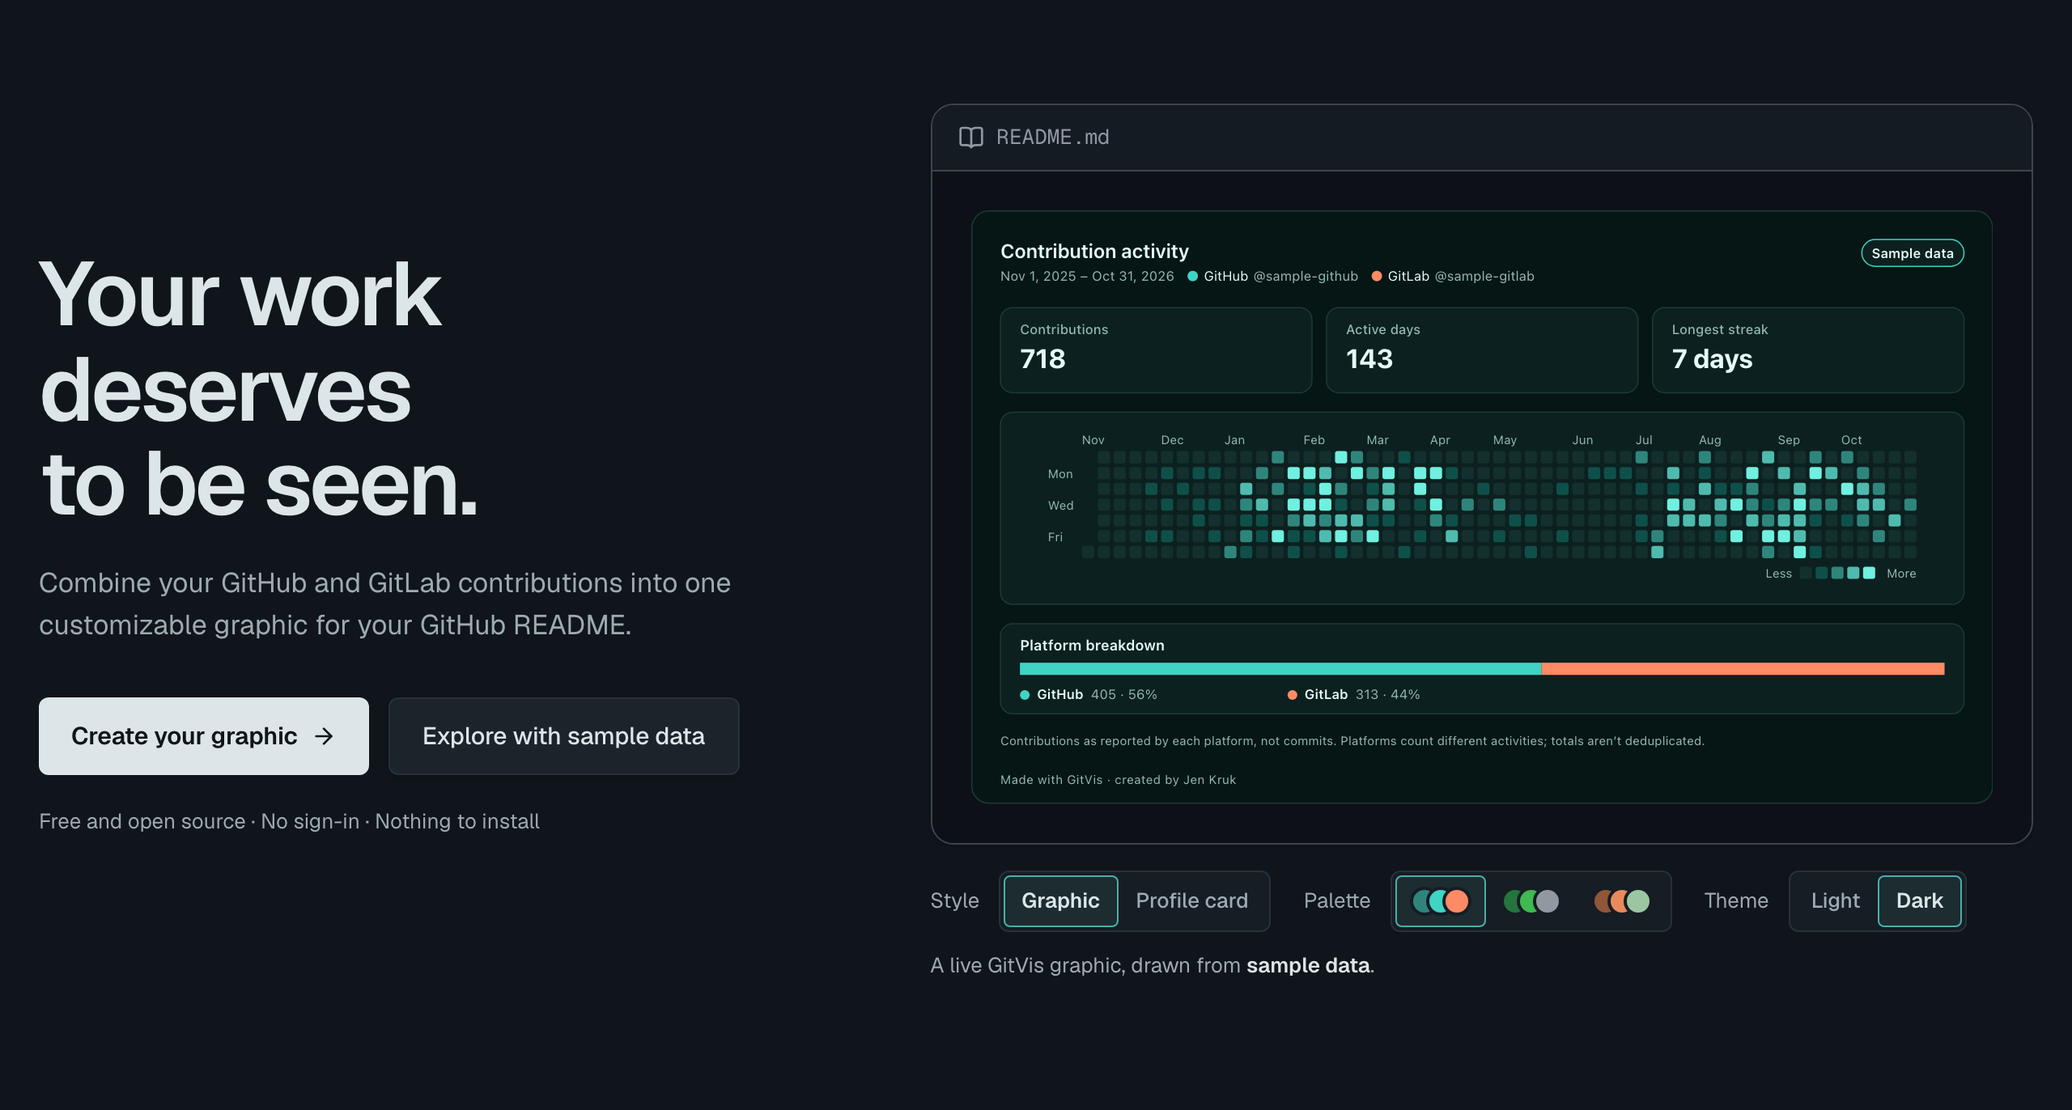
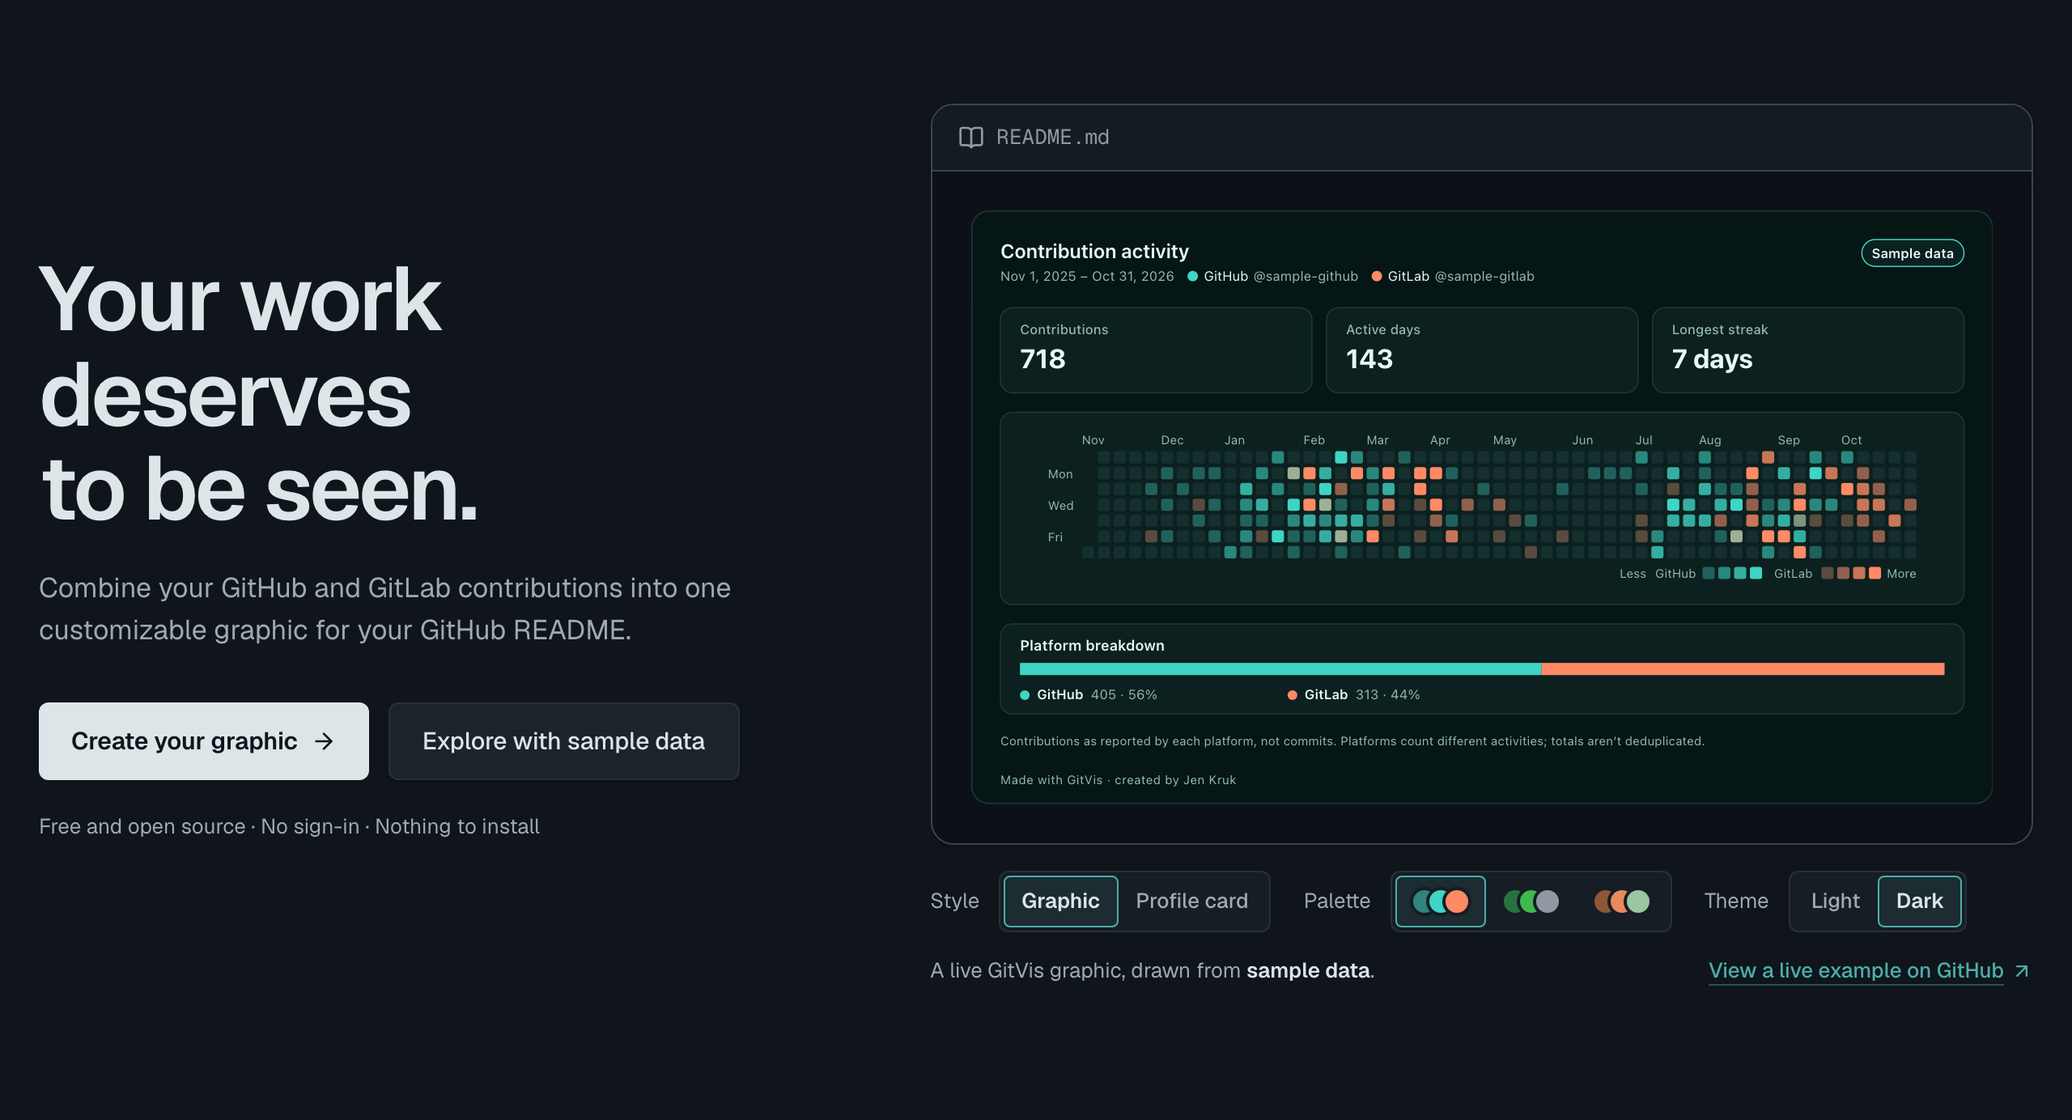
feat(heatmap): color new designs' heatmaps by platform, with a hm URL option that keeps existing cards unchanged

diff --git a/src/publish/card-params.ts b/src/publish/card-params.ts
@@ -5,6 +5,7 @@ import {
   type DateRangeDays,
   type Density,
   finalText,
+  type HeatmapColors,
   type IdentityStyle,
   NAME_MAX_LENGTH,
   sanitizeText,
@@ -94,6 +95,7 @@ const YEARS_CODES: Record<`${HistoryYears}`, string> = { "1": "1", "2": "2", "3"
 const RANGE_CODES: Record<`${DateRangeDays}`, string> = { "30": "30", "90": "90", "365": "365" };
 const PLATFORM_CODES: Record<PlatformId, string> = { github: "github", gitlab: "gitlab" };
 const AVATAR_SIDE_CODES: Record<AvatarSide, string> = { left: "left", right: "right" };
+const HEATMAP_CODES: Record<Exclude<HeatmapColors, "auto">, string> = { platform: "platform", combined: "combined" };
 const LEGACY = {
   identity: "none" as IdentityStyle,
   handles: [...PLATFORM_IDS] as PlatformId[],
@@ -105,6 +107,7 @@ const LEGACY = {
   years: 1 as HistoryYears,
   leftPlatform: "github" as PlatformId,
   avatarSide: "left" as AvatarSide,
+  heatmapColors: "auto" as HeatmapColors,
 };
 
 const V1_DEFAULTS = {
@@ -143,6 +146,7 @@ const YEARS_BY_CODE = invert(YEARS_CODES);
 const RANGE_BY_CODE = invert(RANGE_CODES);
 const PLATFORM_BY_CODE = invert(PLATFORM_CODES);
 const AVATAR_SIDE_BY_CODE = invert(AVATAR_SIDE_CODES);
+const HEATMAP_BY_CODE = invert(HEATMAP_CODES);
 const STAT_CODES = Object.fromEntries(STAT_FEATURE_IDS.map((id) => [id, FEATURE_CODES[id]])) as Record<
   StatFeatureId,
   string
@@ -211,6 +215,7 @@ export function encodeCardParams({ request, config: design, size }: CardParams):
   if (config.density !== LEGACY.density) params.set("den", DENSITY_CODES[config.density]);
   if (config.panel !== LEGACY.panel) params.set("pnl", PANEL_CODES[config.panel]);
   if (config.years !== LEGACY.years) params.set("yrs", YEARS_CODES[`${config.years}`]);
+  if (config.heatmapColors !== "auto") params.set("hm", HEATMAP_CODES[config.heatmapColors]);
   return params;
 }
 
@@ -301,6 +306,7 @@ export function decodeCardParams(search: URLSearchParams): DecodedCardParams {
   const density = pick("den", DENSITY_BY_CODE, LEGACY.density);
   const panel = pick("pnl", PANEL_BY_CODE, LEGACY.panel);
   const years = Number(pick("yrs", YEARS_BY_CODE, `${LEGACY.years}`)) as HistoryYears;
+  const heatmapColors: HeatmapColors = pick("hm", HEATMAP_BY_CODE, LEGACY.heatmapColors);
   if (years > 1 && range !== 365) {
     issues.push({ param: "yrs", message: "Multi-year history can't be combined with a 30- or 90-day range." });
   }
@@ -332,6 +338,7 @@ export function decodeCardParams(search: URLSearchParams): DecodedCardParams {
     density,
     panel,
     years,
+    heatmapColors,
   };
   if (years > 1) config.range = 365;
   const decoded = withAttribution(config);

diff --git a/src/config/config.ts b/src/config/config.ts
@@ -18,6 +18,7 @@ export type BackgroundStyle = "solid" | "gradient" | "transparent";
 export type DateRangeDays = 30 | 90 | 365;
 export type Density = "compact" | "spacious";
 export type AvatarSide = "left" | "right";
+export type HeatmapColors = "auto" | "platform" | "combined";
 
 export const IDENTITY_STYLES: readonly IdentityStyle[] = ["none", "compact", "full", "centered"];
 export const BACKGROUND_STYLES: readonly BackgroundStyle[] = ["solid", "gradient", "transparent"];
@@ -54,6 +55,7 @@ export interface VisualizationConfig {
   range: DateRangeDays;
   density: Density;
   panel: PanelStyle;
+  heatmapColors: HeatmapColors;
   years: HistoryYears;
 }
 
@@ -113,7 +115,21 @@ export function createDefaultConfig(): VisualizationConfig {
     density: "spacious",
     panel: "filled",
     years: 1,
+    heatmapColors: "platform",
   };
+}
+
+export function hasCustomPlatformColors(config: Pick<VisualizationConfig, "platformColors">): boolean {
+  return PLATFORM_IDS.some((p) => !!config.platformColors[p]);
+}
+
+export function heatmapByPlatform(
+  config: Pick<VisualizationConfig, "heatmapColors" | "platformColors">,
+  platformCount: number,
+): boolean {
+  if (config.heatmapColors === "combined") return false;
+  if (config.heatmapColors === "platform" && platformCount > 1) return true;
+  return hasCustomPlatformColors(config);
 }
 
 export function sanitizeText(value: string, max: number, { finalize = true } = {}): string {
@@ -146,6 +162,7 @@ export type ConfigAction =
   | { type: "setRange"; range: DateRangeDays }
   | { type: "setDensity"; density: Density }
   | { type: "setPanel"; panel: PanelStyle }
+  | { type: "setHeatmapByPlatform"; enabled: boolean }
   | { type: "setYears"; years: HistoryYears }
   | {
       type: "applyPreset";
@@ -213,6 +230,10 @@ export function configReducer(state: VisualizationConfig, action: ConfigAction):
       return state.density === action.density ? state : { ...state, density: action.density };
     case "setPanel":
       return state.panel === action.panel ? state : { ...state, panel: action.panel };
+    case "setHeatmapByPlatform": {
+      const heatmapColors = action.enabled ? "platform" : "combined";
+      return state.heatmapColors === heatmapColors ? state : { ...state, heatmapColors };
+    }
     case "applyPreset":
       if (presetOf(state) === action.preset) return state;
       if (action.preset === "graphic") return identity({ style: "none" });

diff --git a/src/renderers/phase4-render.test.tsx b/src/renderers/phase4-render.test.tsx
@@ -379,7 +379,7 @@ describe("panel styles (Phase 4.2)", () => {
   });
 });
 
-describe("heatmap colored by platform (custom platform colors)", () => {
+describe("heatmap colored by platform", () => {
   const custom = with_({ type: "setPlatformColor", platform: "gitlab", color: "#a7562a" });
   const cells = (svg: string) =>
     [...svg.matchAll(/<rect [^>]*rx="2" fill="(#[0-9a-f]{6})"><title>([^<]*)<\/title>/g)].map((m) => ({
@@ -387,11 +387,30 @@ describe("heatmap colored by platform (custom platform colors)", () => {
       title: m[2]!,
     }));
 
-  it("leaves the default (no custom colors) on the palette's single ramp", () => {
-    const svg = render(createDefaultConfig());
+  it("keeps the original single ramp for URLs without hm and no custom colors", () => {
+    const svg = render({ ...createDefaultConfig(), heatmapColors: "auto" });
     const theme = resolveTheme("aurora", "dark");
     for (const { fill } of cells(svg)) expect(theme.heatmap).toContain(fill);
     expect(svg).not.toMatch(/>GitLab<\/text><rect/);
+  });
+
+  it("colors new designs with both accounts by platform, using the palette's own series colors", () => {
+    const svg = render(createDefaultConfig());
+    const [githubRamp, gitlabRamp] = withPlatformHeatmap(resolveTheme("aurora", "dark")).platformHeatmap!;
+    expect(gitlabRamp.slice(1)).toContain(cells(svg).find((c) => /\(GitLab \d+\)$/.test(c.title))!.fill);
+    expect(githubRamp.slice(1)).toContain(cells(svg).find((c) => /\(GitHub \d+\)$/.test(c.title))!.fill);
+    expect(svg).toMatch(/>Less<\/text>.*>GitHub<\/text>.*>GitLab<\/text>.*>More<\/text>/s);
+  });
+
+  it("uses the single ramp when switched off, even with custom colors, and for one account", () => {
+    const theme = resolveTheme("aurora", "dark");
+    const off = render(with_({ type: "setHeatmapByPlatform", enabled: false }));
+    for (const { fill } of cells(off)) expect(theme.heatmap).toContain(fill);
+    const offCustom = render({ ...custom, heatmapColors: "combined" });
+    expect(offCustom).not.toMatch(/>GitLab<\/text><rect/);
+    const single = combineSources([dataset.sources[0]!], trailingYear(end), "live");
+    const oneAccount = renderToStaticMarkup(<Visualization dataset={single} config={createDefaultConfig()} />);
+    expect(oneAccount).not.toMatch(/>GitHub<\/text><rect/);
   });
 
   it("colors each day by the platform that contributed most, and labels both ramps", () => {

diff --git a/src/components/studio/DesignControls.tsx b/src/components/studio/DesignControls.tsx
@@ -1,5 +1,5 @@
 import type { Dispatch } from "react";
-import { type ConfigAction, isFeatureVisible, type VisualizationConfig } from "@/config/config";
+import { type ConfigAction, heatmapByPlatform, isFeatureVisible, type VisualizationConfig } from "@/config/config";
 import { FEATURES } from "@/config/features";
 import { type ContributionDataset, PLATFORMS } from "@/domain/types";
 import { Disclosure } from "./controls";
@@ -7,6 +7,7 @@ import { overline } from "@/components/ui/recipes";
 import {
   BackgroundPicker,
   DataPicker,
+  HeatmapColorsSwitch,
   historyAvailability,
   IdentityPicker,
   PanelPicker,
@@ -48,7 +49,12 @@ export function sectionSummaries(config: VisualizationConfig, dataset: Contribut
     identity: [IDENTITY_SUMMARY[config.identity.style], arrangement(config), config.identity.name.trim()]
       .filter(Boolean)
       .join(" · "),
-    colors: [BACKGROUND_SUMMARY[config.background], PANEL_SUMMARY[config.panel], custom ? "Custom colors" : ""]
+    colors: [
+      BACKGROUND_SUMMARY[config.background],
+      PANEL_SUMMARY[config.panel],
+      custom ? "Custom colors" : "",
+      dataset.sources.length > 1 && !heatmapByPlatform(config, dataset.sources.length) ? "Combined heatmap" : "",
+    ]
       .filter(Boolean)
       .join(" · "),
     metrics: `${shown} of ${FEATURES.length} shown`,
@@ -76,6 +82,7 @@ export function DesignControls({ config, dispatch, dataset }: DesignControlsProp
           <BackgroundPicker config={config} dispatch={dispatch} />
           <PanelPicker config={config} dispatch={dispatch} />
           <PlatformColorPicker config={config} dispatch={dispatch} />
+          <HeatmapColorsSwitch config={config} dispatch={dispatch} dataset={dataset} />
         </Disclosure>
         <Disclosure name={ACCORDION} title="Metrics & Charts" summary={summaries.metrics}>
           <FeatureToggles config={config} dispatch={dispatch} dataset={dataset} />

diff --git a/src/publish/phase4-params.test.ts b/src/publish/phase4-params.test.ts
@@ -46,10 +46,28 @@ describe("Phase 4 URL params", () => {
   });
 
   it("leave legacy-equivalent designs with the same params (no new params written; same URL as before)", () => {
-    const query = encodeCardParams({ request: { github: "jenkruk" }, config: createDefaultConfig() }).toString();
+    const legacyEquivalent: VisualizationConfig = { ...createDefaultConfig(), heatmapColors: "auto" };
+    const query = encodeCardParams({ request: { github: "jenkruk" }, config: legacyEquivalent }).toString();
     expect(query).toBe(
       "v=1&github=jenkruk&layout=dashboard&palette=aurora&mode=dark&f=heatmap%2Ctotal%2Cactive%2Cstreak%2Cbreakdown%2Ctrends%2Clabels",
     );
+  });
+
+  it("decode a missing hm as the original heatmap coloring, and round-trip platform and combined", () => {
+    expect(decode("v=1&github=jenkruk").config.heatmapColors).toBe("auto");
+    expect(decode("v=1&github=jenkruk&hm=platform").config.heatmapColors).toBe("platform");
+    expect(decode("v=1&github=jenkruk&hm=combined").config.heatmapColors).toBe("combined");
+    expect(decode("v=1&github=jenkruk&hm=rainbow").issues).toEqual([{ param: "hm", message: "Unknown hm “rainbow”." }]);
+    for (const heatmapColors of ["platform", "combined"] as const) {
+      const config = { ...createDefaultConfig(), heatmapColors };
+      expect(decodeCardParams(encodeCardParams({ request: { github: "jenkruk" }, config })).config).toEqual(config);
+    }
+  });
+
+  it("start new designs with the heatmap colored by platform (written as hm=platform)", () => {
+    expect(createDefaultConfig().heatmapColors).toBe("platform");
+    const query = encodeCardParams({ request: { github: "jenkruk" }, config: createDefaultConfig() });
+    expect(query.get("hm")).toBe("platform");
   });
 
   it("fit within the query limit even with maximal multi-byte name and title", () => {

diff --git a/src/components/studio/personalize.tsx b/src/components/studio/personalize.tsx
@@ -6,6 +6,7 @@ import {
   type BackgroundStyle,
   type ConfigAction,
   type Density,
+  hasCustomPlatformColors,
   hasTitle,
   type IdentityStyle,
   NAME_MAX_LENGTH,
@@ -16,7 +17,7 @@ import {
 import type { HistoryYears } from "@/domain/history";
 import { type ContributionDataset, PLATFORM_IDS, PLATFORMS, type PlatformId } from "@/domain/types";
 import { resolveTheme } from "@/theme/palettes";
-import { ControlGroup, RadioCard, SegmentLabel } from "./controls";
+import { ControlGroup, RadioCard, SegmentLabel, Switch } from "./controls";
 import { button, field, focusRing, focusWithin, hint as hintClass } from "@/components/ui/recipes";
 
 interface Props {
@@ -279,6 +280,25 @@ export function PanelPicker({ config, dispatch }: Props) {
         ))}
       </div>
     </ControlGroup>
+  );
+}
+
+export function HeatmapColorsSwitch({ config, dispatch, dataset }: Props & { dataset: ContributionDataset }) {
+  const checked =
+    config.heatmapColors === "platform" || (config.heatmapColors === "auto" && hasCustomPlatformColors(config));
+  const combinedAccounts = dataset.sources.length > 1;
+  return (
+    <Switch
+      id="heatmap-by-platform"
+      label="Color the heatmap by platform"
+      description={
+        combinedAccounts || hasCustomPlatformColors(config)
+          ? "Each day takes the color of the platform with more contributions that day."
+          : "Applies when both accounts are connected."
+      }
+      checked={checked}
+      onChange={(enabled) => dispatch({ type: "setHeatmapByPlatform", enabled })}
+    />
   );
 }
 

diff --git a/src/publish/card-params.test.ts b/src/publish/card-params.test.ts
@@ -47,7 +47,7 @@ describe("card params: round trip", () => {
       config: { ...createDefaultConfig(), layout: "dataRich", palette: "desertSunset", mode: "light" },
     }).toString();
     expect(query).toBe(
-      "v=1&github=jenkruk&gitlab=contactkruk&layout=data-rich&palette=desert-sunset&mode=light&f=heatmap%2Ctotal%2Cactive%2Cstreak%2Cbreakdown%2Ctrends%2Clabels",
+      "v=1&github=jenkruk&gitlab=contactkruk&layout=data-rich&palette=desert-sunset&mode=light&f=heatmap%2Ctotal%2Cactive%2Cstreak%2Cbreakdown%2Ctrends%2Clabels&hm=platform",
     );
   });
 });
@@ -69,6 +69,7 @@ const LEGACY_EXTRAS = {
   density: "spacious",
   panel: "filled",
   years: 1,
+  heatmapColors: "auto",
 } as const satisfies Omit<VisualizationConfig, "layout" | "palette" | "mode" | "features">;
 const legacy = (c: Pick<VisualizationConfig, "layout" | "palette" | "mode" | "features">): VisualizationConfig =>
   ({
@@ -211,7 +212,7 @@ describe("card params: source attribution", () => {
       },
     }).toString();
     expect(query).toBe(
-      "v=1&github=jenkruk&layout=dashboard&palette=aurora&mode=dark&f=heatmap%2Ctotal%2Cactive%2Cstreak%2Cbreakdown%2Ctrends%2Clabels",
+      "v=1&github=jenkruk&layout=dashboard&palette=aurora&mode=dark&f=heatmap%2Ctotal%2Cactive%2Cstreak%2Cbreakdown%2Ctrends%2Clabels&hm=platform",
     );
   });
 

diff --git a/src/components/studio/Studio.test.tsx b/src/components/studio/Studio.test.tsx
@@ -281,6 +281,23 @@ describe("design step", () => {
     expect(screen.getByRole("radio", { name: /gradient/i, hidden: true })).toBeChecked();
   });
 
+  it("colors the heatmap by platform by default, with a switch to combine it", async () => {
+    const { user, preview } = design();
+    const section = screen.getByText("Colors & Background", { selector: "summary span" }).closest("details")!;
+    await user.click(within(section).getByText("Colors & Background"));
+    const toggle = screen.getByRole("switch", { name: "Color the heatmap by platform" });
+    expect(toggle).toBeChecked();
+    expect(toggle).toHaveAccessibleDescription(/platform with more contributions/i);
+    const platformLegend = />Less<\/text>.*>GitHub<\/text>.*>GitLab<\/text>.*>More<\/text>/s;
+    expect(preview().innerHTML).toMatch(platformLegend);
+
+    await user.click(toggle);
+    expect(toggle).not.toBeChecked();
+    expect(section.querySelector("summary")).toHaveTextContent("Combined heatmap");
+    expect(new URLSearchParams(window.location.search).get("hm")).toBe("combined");
+    expect(preview().innerHTML).not.toMatch(platformLegend);
+  });
+
   it("marks selected cards with a check as well as color, and keeps the radio semantics", () => {
     design();
     const layout = screen.getByRole("group", { name: "Layout" });

diff --git a/src/app/studio/page.tsx b/src/app/studio/page.tsx
@@ -7,7 +7,8 @@ import { Studio } from "@/components/studio/Studio";
 import { StudioSkeleton } from "@/components/studio/StudioSkeleton";
 import { createSampleDataset } from "@/fixtures/sample-dataset";
 import { decodeCardParams } from "@/publish/card-params";
-import { SAMPLE_PARAM, STUDIO_PATH } from "@/publish/studio-url";
+import { hasDesignParams, SAMPLE_PARAM, STUDIO_PATH } from "@/publish/studio-url";
+import { createDefaultConfig } from "@/config/config";
 import { serverLoaders } from "@/server/cached";
 import { MAX_HISTORY_YEARS } from "@/domain/history";
 import { loadContributions } from "@/server/contributions";
@@ -48,7 +49,9 @@ async function resolveOrigin() {
 
 async function StudioLoader({ searchParams }: Pick<PageProps<"/studio">, "searchParams">) {
   const search = toSearchParams(await searchParams);
-  const { request, config } = decodeCardParams(search);
+  const decoded = decodeCardParams(search);
+  const { request } = decoded;
+  const config = hasDesignParams(search) ? decoded.config : createDefaultConfig();
   const sample = !request && search.has(SAMPLE_PARAM);
   const { origin, environment } = await resolveOrigin();
   if (request) await connection();

diff --git a/src/publish/studio-url.test.ts b/src/publish/studio-url.test.ts
@@ -3,7 +3,7 @@ import { createDefaultConfig, type VisualizationConfig } from "@/config/config";
 import { FEATURE_IDS } from "@/config/features";
 import { STAT_FEATURE_IDS } from "@/config/features";
 import { encodeCardParams } from "./card-params";
-import { legacyStudioRedirects, SAMPLE_PARAM, STUDIO_PATH, STUDIO_QUERY_KEYS } from "./studio-url";
+import { hasDesignParams, legacyStudioRedirects, SAMPLE_PARAM, STUDIO_PATH, STUDIO_QUERY_KEYS } from "./studio-url";
 
 const nonDefaultDesign: VisualizationConfig = {
   ...createDefaultConfig(),
@@ -50,5 +50,13 @@ describe("studio URLs", () => {
       expect(r.destination).not.toContain("?");
     }
     expect(redirects.map((r) => r.has[0]!.key)).toContain(SAMPLE_PARAM);
+  });
+
+  it("treats a studio URL with only accounts or the sample flag as a new design", () => {
+    const has = (q: string) => hasDesignParams(new URLSearchParams(q));
+    expect(has("")).toBe(false);
+    expect(has("github=a&gitlab=b&sample=1")).toBe(false);
+    expect(has("v=1&github=a")).toBe(true);
+    expect(has("palette=lagoon")).toBe(true);
   });
 });

diff --git a/src/renderers/Visualization.tsx b/src/renderers/Visualization.tsx
@@ -1,4 +1,4 @@
-import { finalText, hasTitle, isFeatureVisible, type VisualizationConfig } from "@/config/config";
+import { finalText, hasTitle, heatmapByPlatform, isFeatureVisible, type VisualizationConfig } from "@/config/config";
 import { formatDate, toISODate } from "@/domain/dates";
 import { type ContributionDataset, PLATFORMS } from "@/domain/types";
 import { computeMetrics, type ContributionMetrics } from "@/metrics/metrics";
@@ -91,7 +91,7 @@ export function Visualization({
     custom.github || custom.gitlab ? { series: [custom.github, custom.gitlab] } : {},
   );
   const panelled = applyPanelStyle(base, config.panel, panelBackdrops(base, config.background, config.mode));
-  const theme = custom.github || custom.gitlab ? withPlatformHeatmap(panelled) : panelled;
+  const theme = heatmapByPlatform(config, dataset.sources.length) ? withPlatformHeatmap(panelled) : panelled;
   const spacing = SPACING[config.density];
   const canvasWidth = CANVAS_WIDTHS[size];
   const compactCanvas = size === "compact";

diff --git a/src/publish/studio-url.ts b/src/publish/studio-url.ts
@@ -27,6 +27,7 @@ export const STUDIO_QUERY_KEYS = [
   "den",
   "pnl",
   "yrs",
+  "hm",
   SAMPLE_PARAM,
 ] as const;
 
@@ -37,4 +38,10 @@ export function legacyStudioRedirects() {
     destination: STUDIO_PATH,
     permanent: false,
   }));
+}
+
+const ACCOUNT_KEYS: readonly string[] = ["github", "gitlab", SAMPLE_PARAM];
+
+export function hasDesignParams(search: URLSearchParams): boolean {
+  return STUDIO_QUERY_KEYS.some((key) => !ACCOUNT_KEYS.includes(key) && search.has(key));
 }
